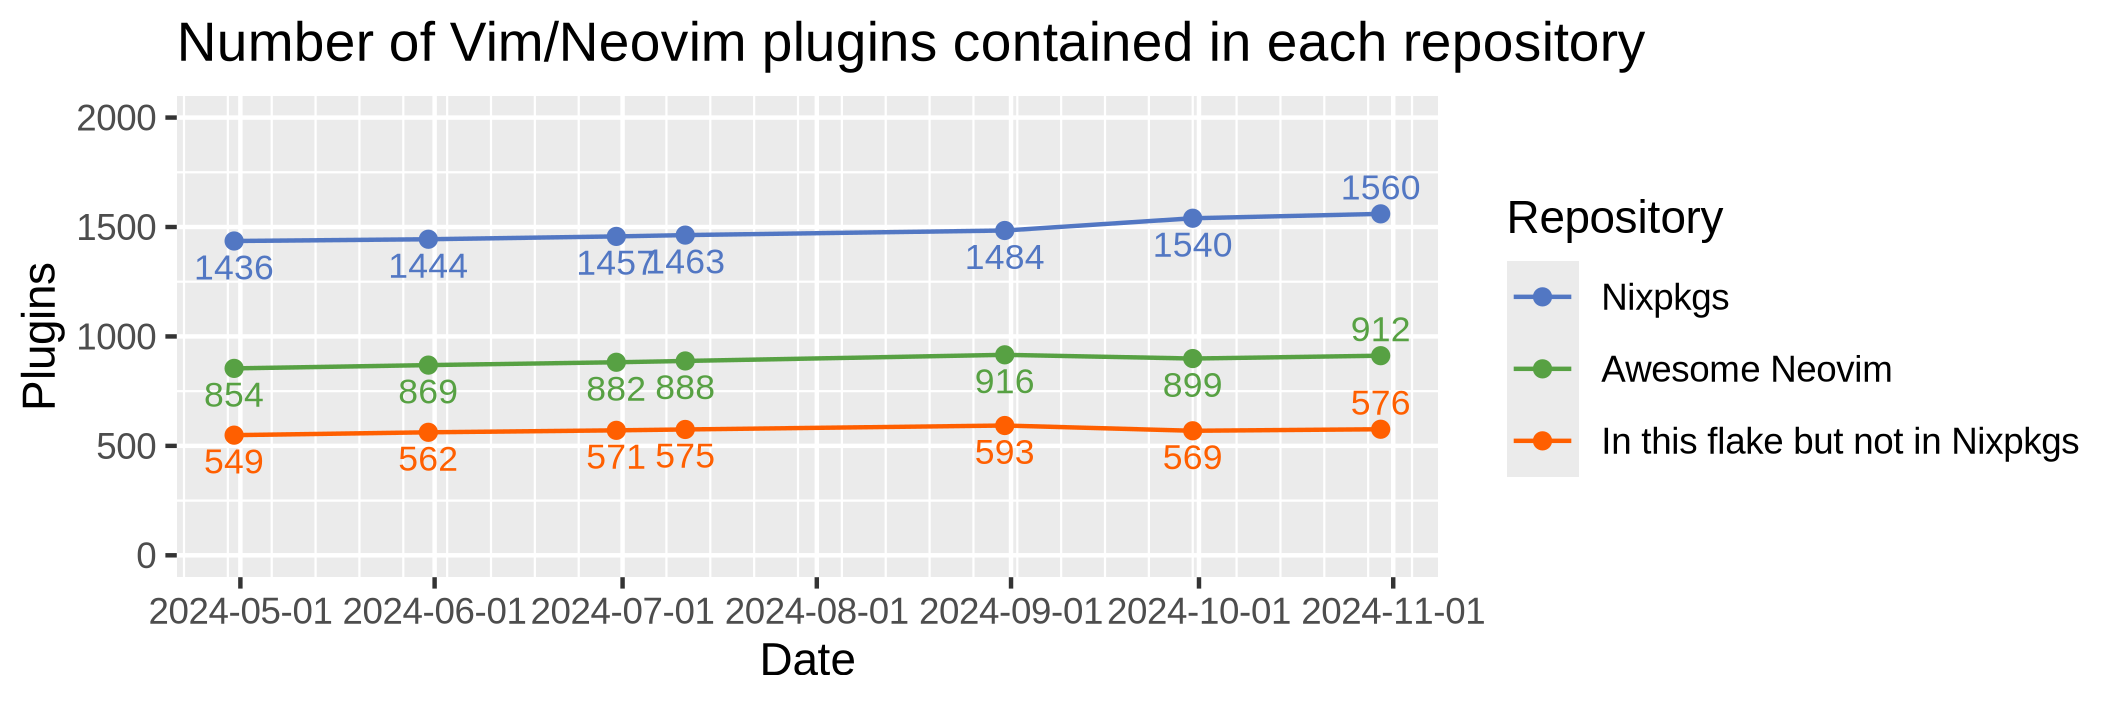
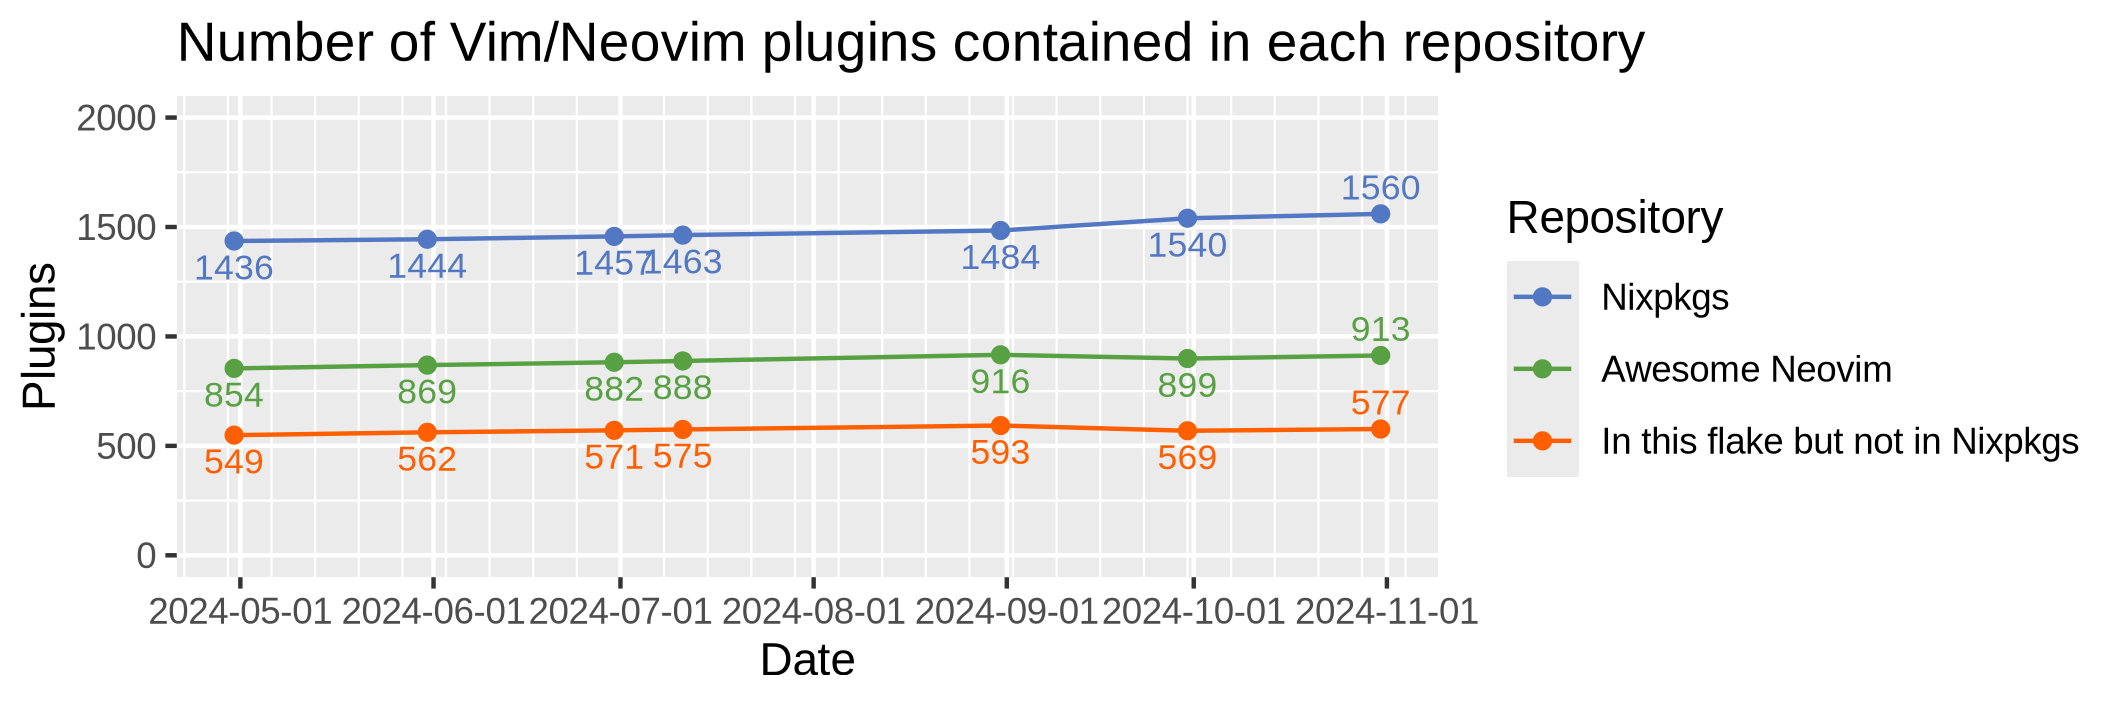
auto: update vim plugins

diff --git a/README.md b/README.md
@@ -8,7 +8,7 @@ Nix flake of Awesome Neovim plugins.
 
 [b1]: https://img.shields.io/github/actions/workflow/status/m15a/flake-awesome-neovim-plugins/check.yml?style=flat-square&logo=github&label=CI
 [b2]: https://github.com/m15a/flake-awesome-neovim-plugins/actions/workflows/check.yml
-[b3]: https://img.shields.io/badge/Awesome_Neovim_plugins-912-57A143?style=flat-square
+[b3]: https://img.shields.io/badge/Awesome_Neovim_plugins-913-57A143?style=flat-square
 [b4]: https://img.shields.io/endpoint?url=https://flakehub.com/f/m15a/flake-awesome-neovim-plugins/badge&style=flat-square
 [b5]: https://flakehub.com/flake/m15a/flake-awesome-neovim-plugins
 
